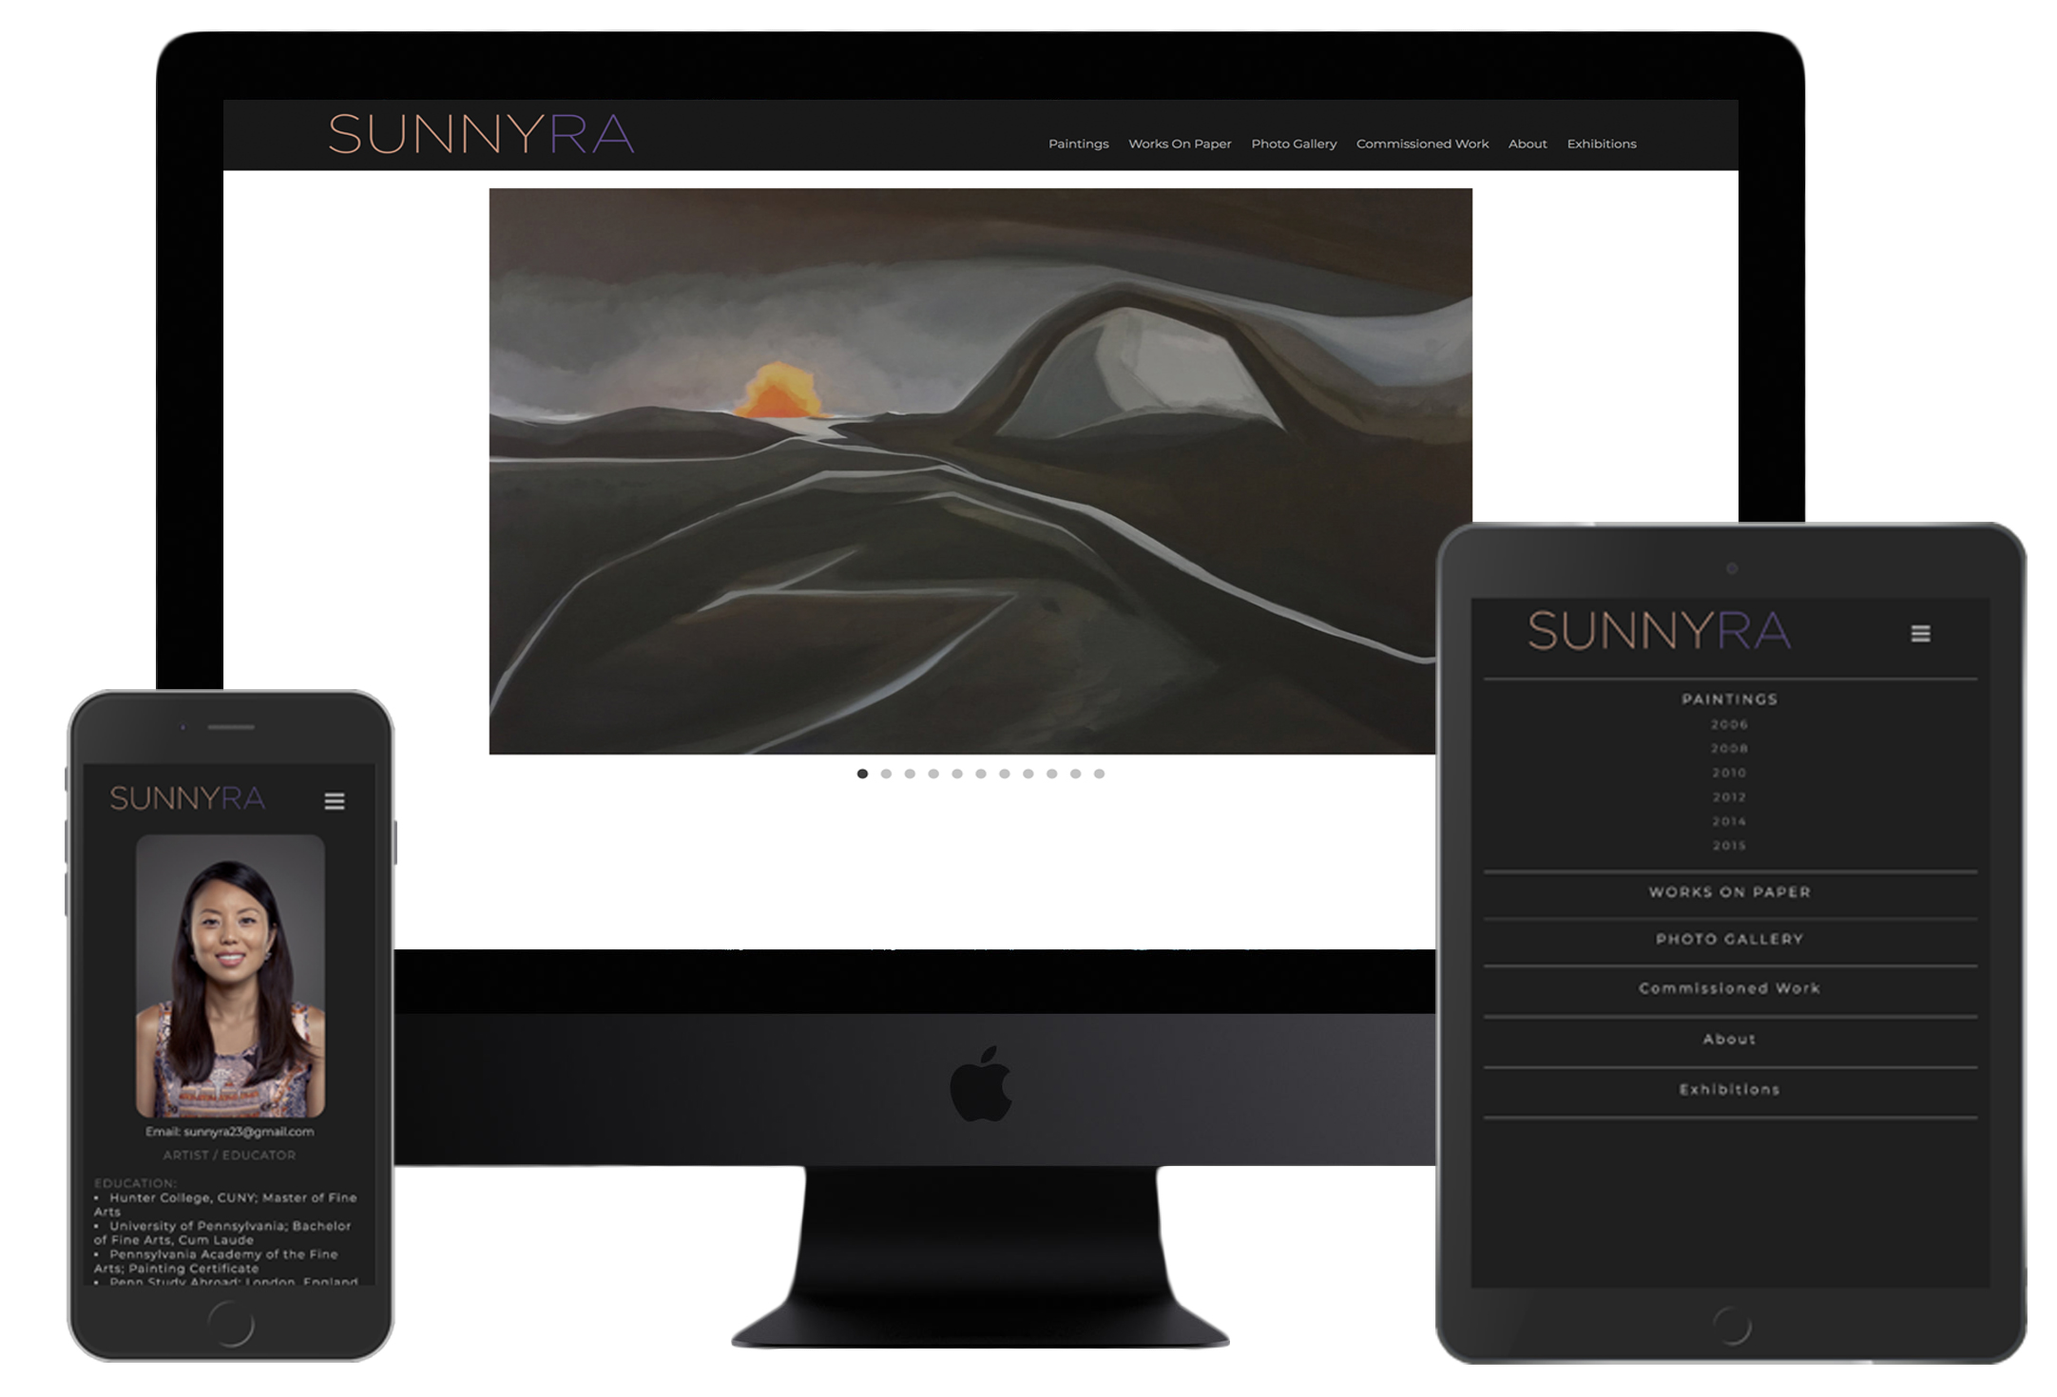
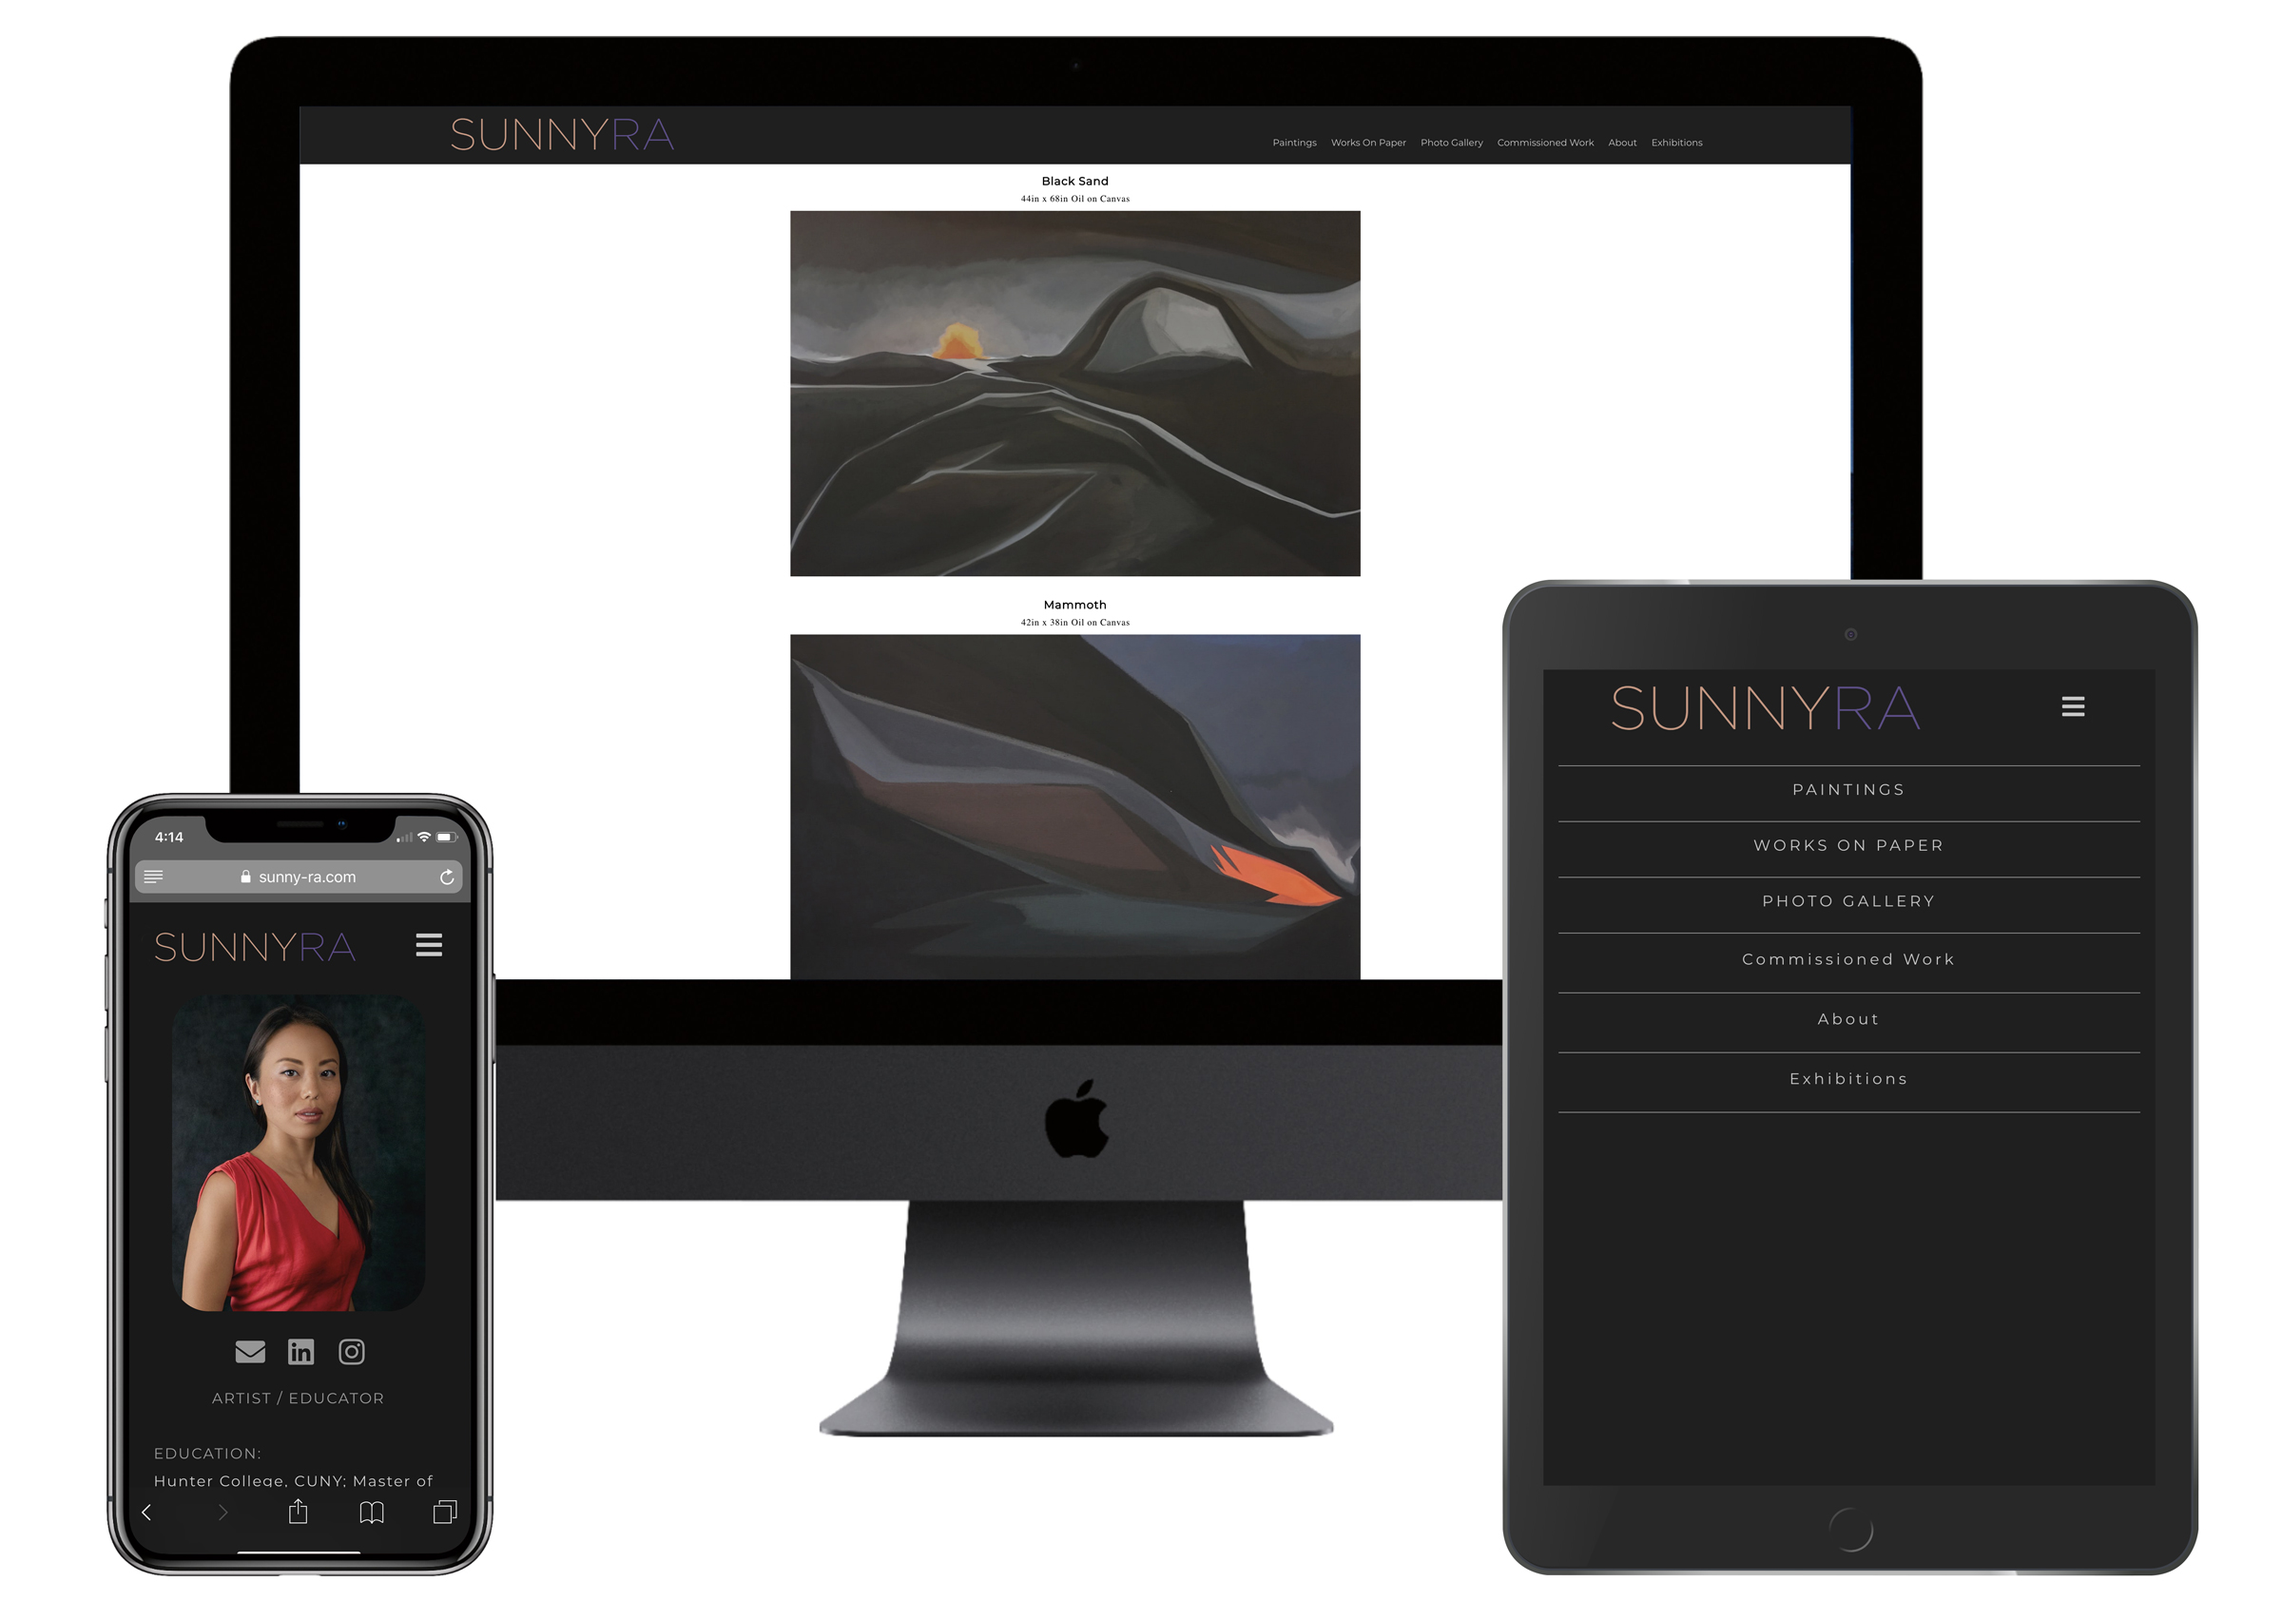
Updated refactored Sunny Ra Website image and description

diff --git a/src/components/Projects.js b/src/components/Projects.js
@@ -58,11 +58,12 @@ export default class Projects extends Component {
 
                     <h1 className='sunny-project-text'>CLIENT PORTFOLIO SITE</h1>
                     <h2 className='sunny-text'>ARTIST SUNNY RA</h2>
-                    <p className='sunny-tech'>TECH USED: REACT | SASS | JAVASCRIPT 
-                    | NETLIFY | REACT HELMET | GOOGLE ANALYTICS
+                    <p className='sunny-tech'>Tech used: 
+  ReactJS | HTML | Sass | Javascript | Redux | React Helmet | PostgresSQL | Digital Ocean | Google Analytics
                 </p>
                 <section>
                 <h3>DETAILS OF PROJECT :</h3>
+                    <p>*UPDATE* Refactored code Aug. 2019 to cut out 75% of static code and converted it over to a SQL database and hosting on Digital Ocean. </p>
                     <p>
                     Client/Artist, Sunny Ra wanted a complete redesign of her portfolio site. I created the wireframe and designed the layout and color scheme. I photographed her portrait for the 'About' section. I then built her site using Reactjs. I made the site fully responsive using Media Queries in SASS. I used React Helmet so google would be able to crawl her site searching for keywords helping SEO (Seach Engine Optimization). I added Google Analytics so Sunny can track her traffic going to her new site.  
                     </p>
